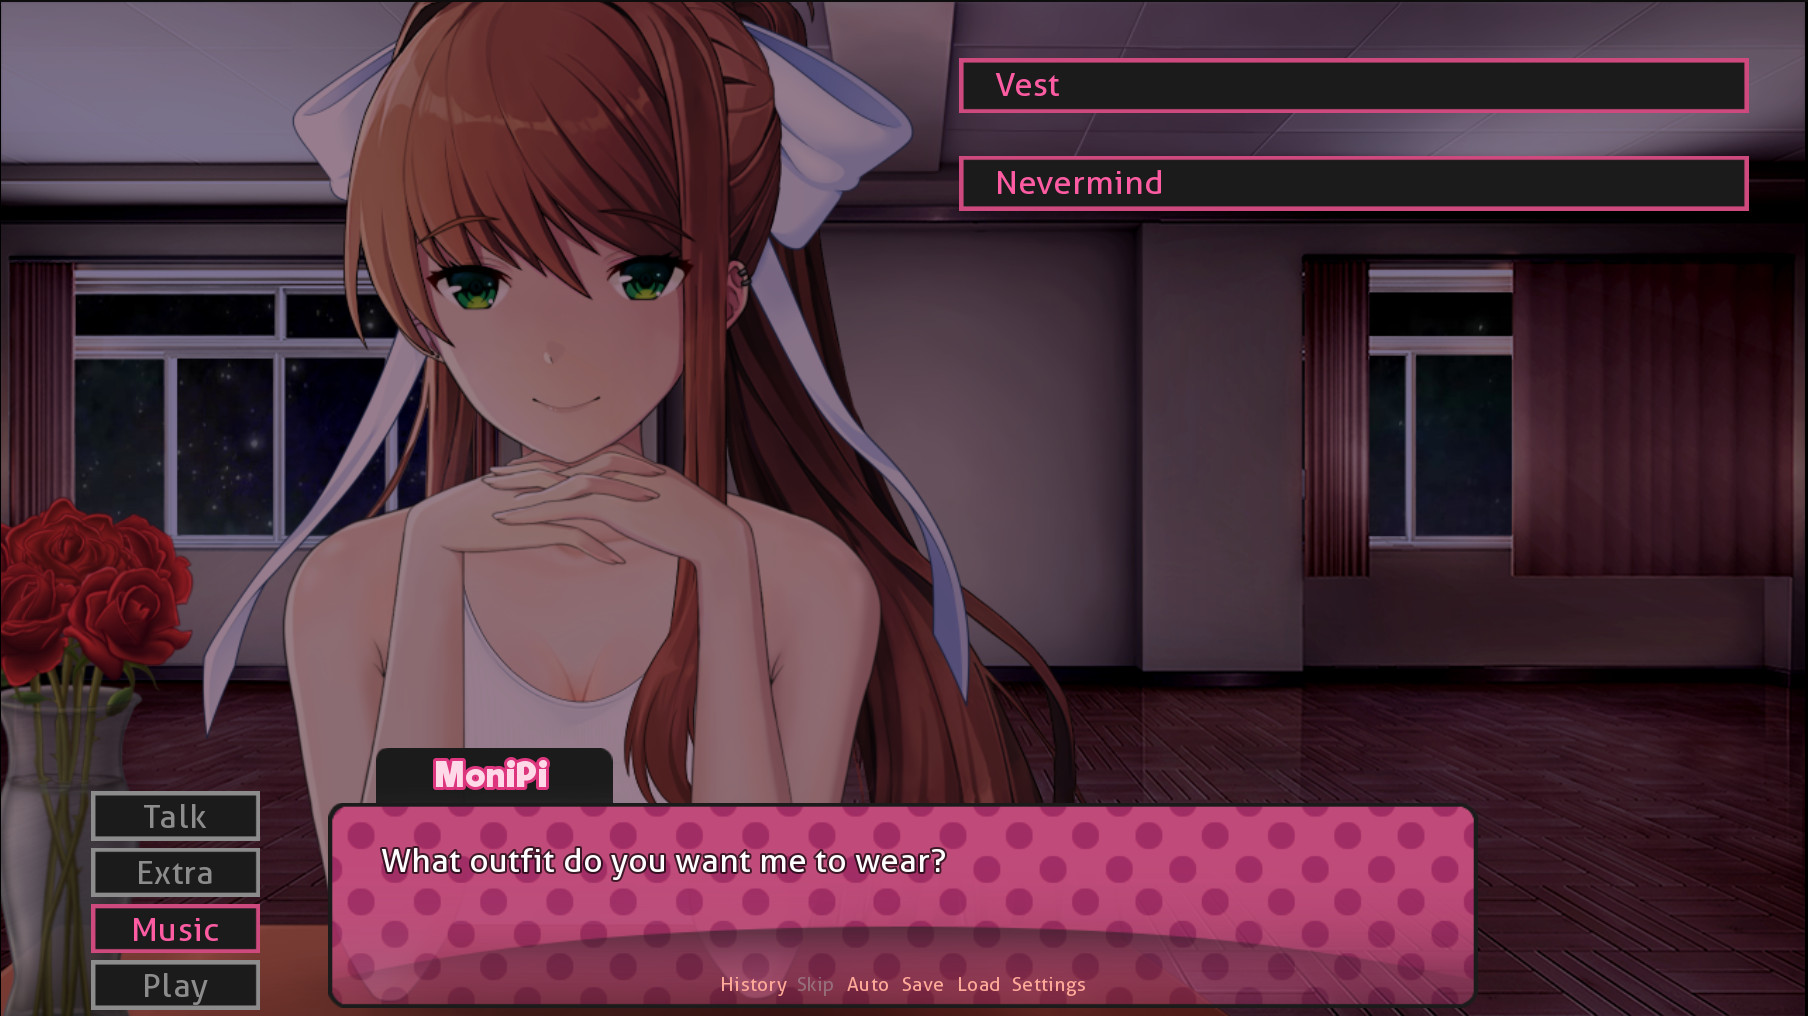
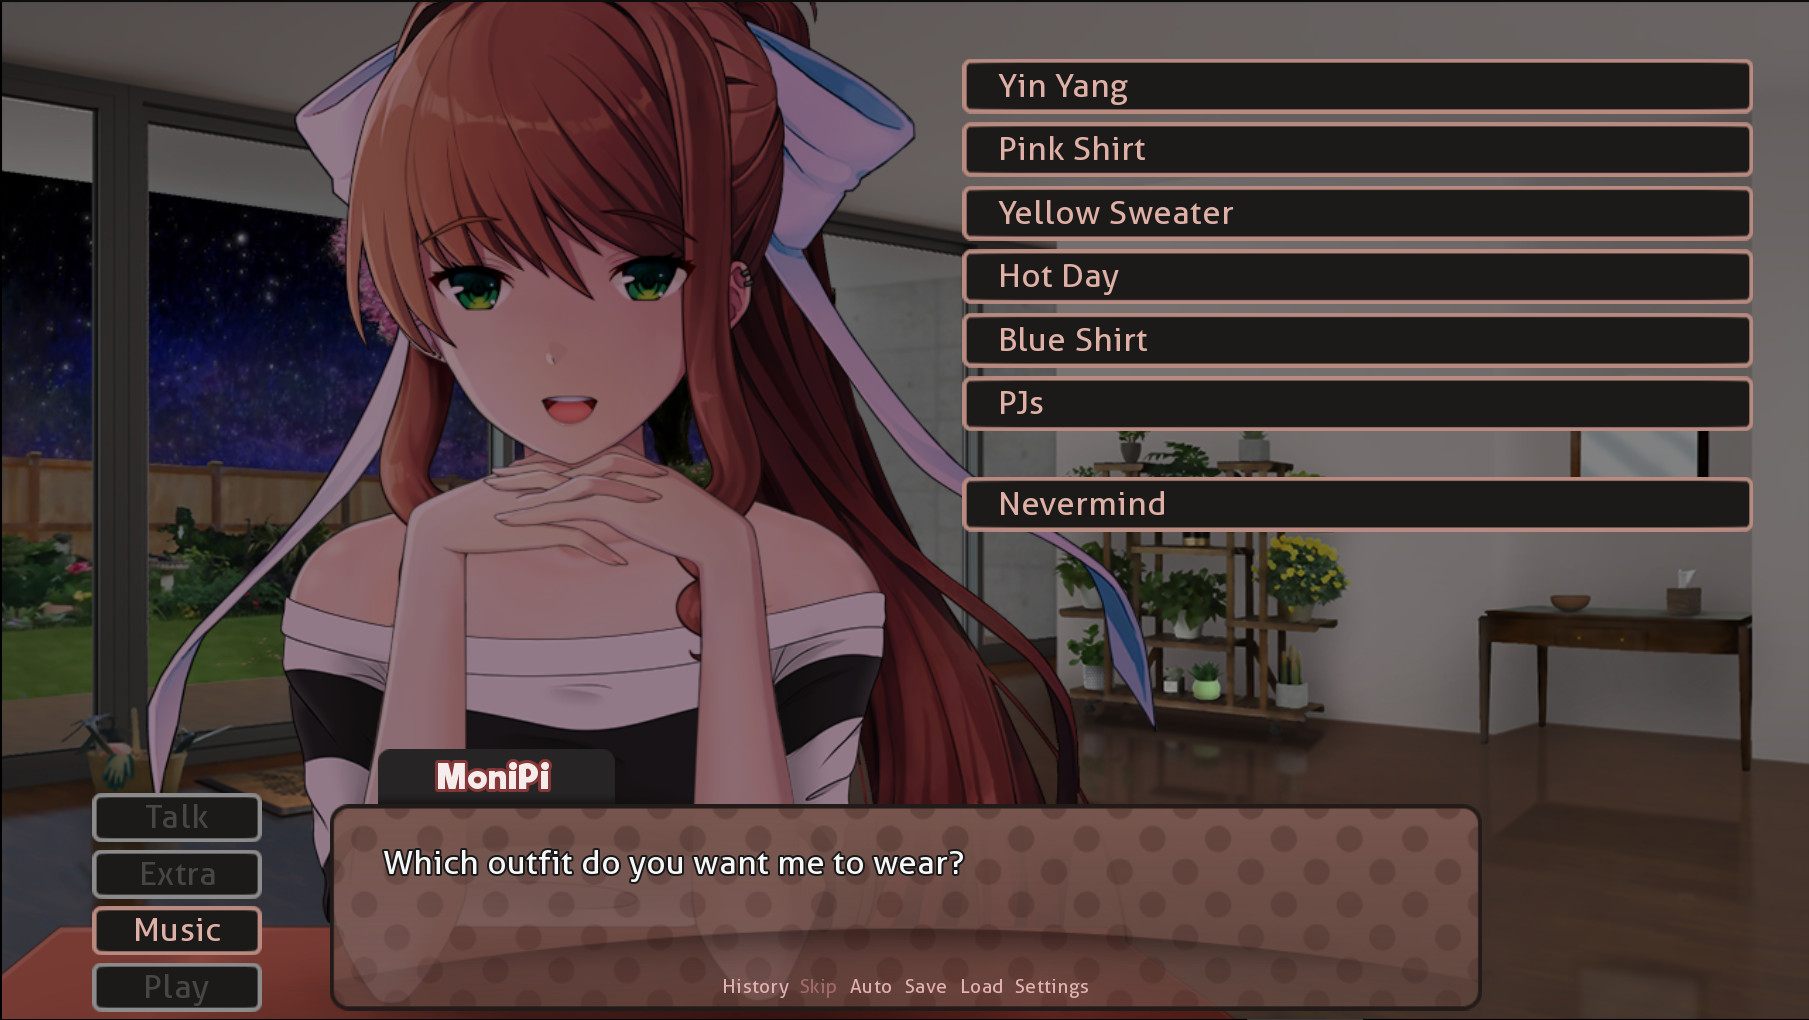
Finishing V1

diff --git a/README.md b/README.md
@@ -1,15 +1,20 @@
 # MASOutfits
 A submod that allows you to save monika outfits!
 
+## Sharing Outfits
+You can share outfits with other users by sending the .jsons inside the outfits folder both users must have the same spritepacks installed for it work.
+
 ## Screenshots
 
-Screeshots of the mod do not have expressions implmented.
-
 ### Can you wear an outfit?
-<img src="https://raw.githubusercontent.com/ImKventis/MASOutfits/main/images/load_example.jpg" style="height:300px;padding:20px">
+<img src="https://raw.githubusercontent.com/ImKventis/MASOutfits/main/images/load_example.jpg" style="height:250px;padding:20px">
 
 ### Can you save an outfit?
-<img src="https://raw.githubusercontent.com/ImKventis/MASOutfits/main/images/save_example.jpg" style="height:300px;padding:20px">
+<img src="https://raw.githubusercontent.com/ImKventis/MASOutfits/main/images/save_example.jpg" style="height:250px;padding:20px">
+
+
+### Can you delete an outfit?
+<img src="https://raw.githubusercontent.com/ImKventis/MASOutfits/main/images/delete_example.jpg" style="height:250px;padding:20px">
 
 ## Quick Links
 
@@ -36,8 +41,11 @@ Dialogue revisted
 Expressions are still missing
 
 
-### 0.0.3
-In progress
+### 1.0.0
+Dialogue imporved
+
+Expressions added
+
 
 ## Pain Log
 
